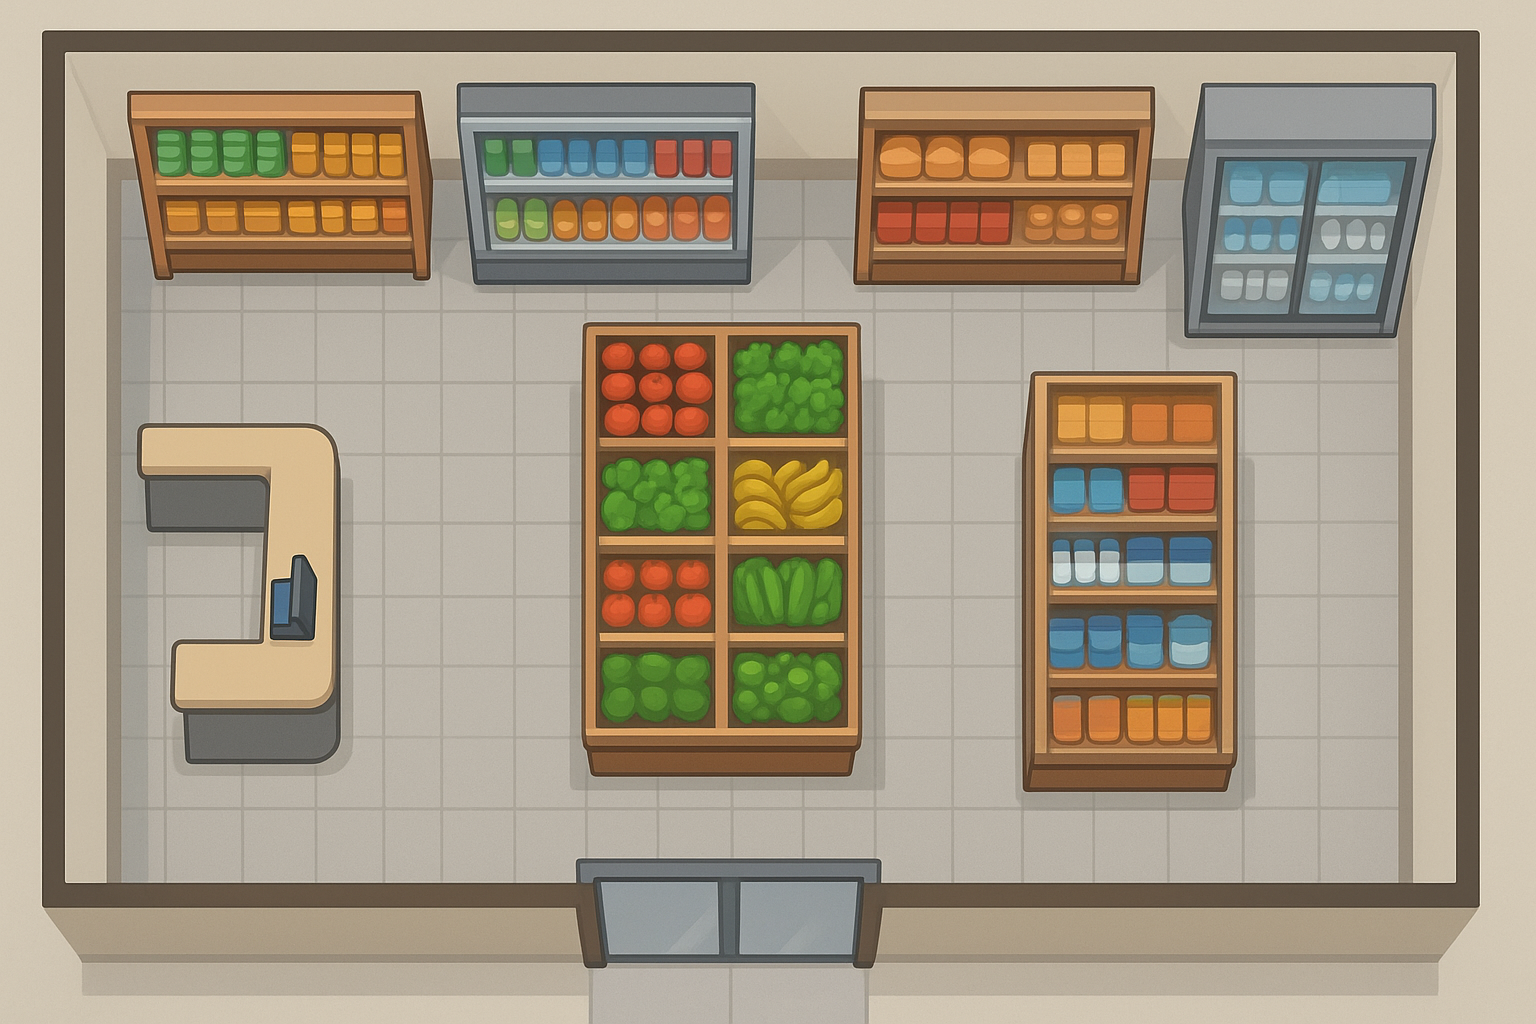
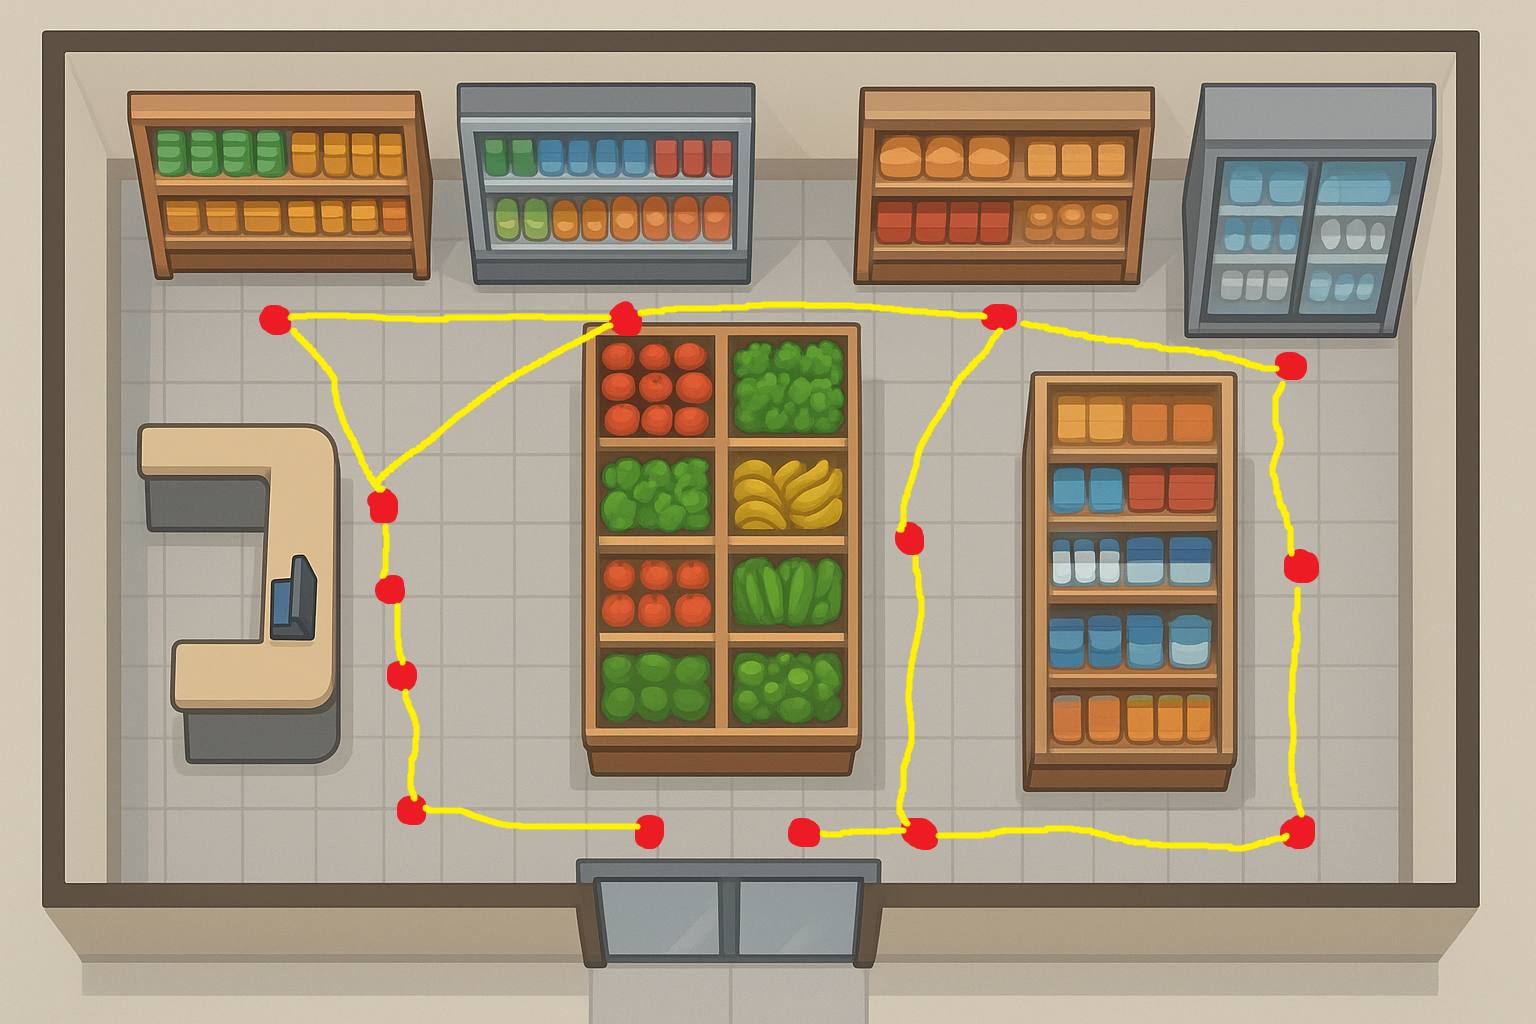
nodes verbeterd en in het systeem gezet

diff --git a/src/main/java/Controller/Main.java b/src/main/java/Controller/Main.java
@@ -6,7 +6,9 @@ import View.SimulationPanel;
 
 import javax.swing.*;
 import java.io.IOException;
+import java.util.HashMap;
 import java.util.List;
+import java.util.Map;
 
 public class Main {
     public static void main(String[] args) throws IOException {
@@ -27,78 +29,98 @@ public class Main {
                 throw new RuntimeException(e);
             }
         });
+
     }
 
     private static void SetupApplication() throws IOException {
-            JFrame frame = new JFrame("Supermarket Simulator");
+        JFrame frame = new JFrame("Supermarket Simulator");
 
-            ImageIcon icon = new ImageIcon(Main.class.getResource("/images/Logo.png"));
-            frame.setIconImage(icon.getImage());
+        ImageIcon icon = new ImageIcon(Main.class.getResource("/images/Logo.png"));
+        frame.setIconImage(icon.getImage());
 
-            frame.setDefaultCloseOperation(JFrame.EXIT_ON_CLOSE);
-            frame.setExtendedState(JFrame.MAXIMIZED_BOTH);
-            frame.setVisible(true);
+        frame.setDefaultCloseOperation(JFrame.EXIT_ON_CLOSE);
+        frame.setExtendedState(JFrame.MAXIMIZED_BOTH);
 
-            try {
-                frame.add(new SimulationPanel());
-            } catch (IOException e) {
-                throw new RuntimeException(e);
+        SimulationPanel panel = new SimulationPanel();
+
+        // 🔥 Add mouse listener here
+        panel.addMouseListener(new java.awt.event.MouseAdapter() {
+            @Override
+            public void mouseClicked(java.awt.event.MouseEvent e) {
+                int width = panel.getWidth();
+                int height = panel.getHeight();
+
+                // Absolute coords
+                int absX = e.getX();
+                int absY = e.getY();
+
+                // Relative coords (0.0 → 1.0)
+                double relX = (double) absX / width;
+                double relY = (double) absY / height;
+
+                System.out.println("Clicked at: (" + absX + ", " + absY +
+                        ")  relative=(" + relX + ", " + relY + ")");
             }
+        });
 
+        frame.add(panel);
+        frame.setVisible(true);
     }
+
 
     private static void grafen(){
         // 1. Maak een WorldGraph
         WorldGraph graph = new WorldGraph();
 
-        // 2. Voeg een paar dummy nodes toe
-        Node entrance = new Node("Entrance", 0, 0);
-        Node pad1 = new Node("Pad1", 0, 0);
-        Node pad2 = new Node("Pad2", 0, 0);
-        Node liggend_kast_1 = new Node("Liggend-kast-1", 5, 5);
-        Node kast1 = new Node("kast1", 5, 0);
-        Node kast2 = new Node("kast2", 5, 5);
-        Node koelkast = new Node("koelkast", 5, 5);
-        Node liggend_kast_2 = new Node("liggend-kast-2", 5, 5);
-        Node kast3 = new Node("kast3", 5, 5);
-        Node queue2 = new Node("queue2", 5, 5);
-        Node queue1 = new Node("queue1", 5, 5);
-        Node cashier = new Node("Cashier", 0, 5);
-        Node exit =  new Node("Exit", 0, 5);
+        HashMap<String, double[]> nodeCordinates = new HashMap<>();
+        Map<String, Node> nodes = new HashMap<>();
 
-        graph.addNode(entrance);
-        graph.addNode(pad1);
-        graph.addNode(pad2);
-        graph.addNode(liggend_kast_1);
-        graph.addNode(kast1);
-        graph.addNode(kast2);
-        graph.addNode(koelkast);
-        graph.addNode(liggend_kast_2);
-        graph.addNode(kast3);
-        graph.addNode(queue2);
-        graph.addNode(queue1);
-        graph.addNode(cashier);
-        graph.addNode(exit);
+        //Dit zijn de relatieve cordinaten. die doen we x de screensize om de goede punten te plaatsen.
+        nodeCordinates.put("entrance", new double[]{0.5234375, 0.8140610545790934});
+        nodeCordinates.put("pad1", new double[]{0.59765625, 0.8122109158186864});
+        nodeCordinates.put("pad2", new double[]{0.84716796875, 0.81313598519889});
+        nodeCordinates.put("liggend-kast-2", new double[]{0.8466796875, 0.5513413506012951});
+        nodeCordinates.put("koelkast", new double[]{0.8408203125, 0.35337650323774283});
+        nodeCordinates.put("kast1", new double[]{0.64990234375, 0.3089731729879741});
+        nodeCordinates.put("liggend-kast-1", new double[]{0.59130859375, 0.5235892691951897});
+        nodeCordinates.put("kast2", new double[]{0.4091796875, 0.31267345050878814});
+        nodeCordinates.put("kast3", new double[]{0.1787109375, 0.3108233117483811});
+        nodeCordinates.put("queue3", new double[]{0.24755859375, 0.4958371877890842});
+        nodeCordinates.put("queue2", new double[]{0.25439453125, 0.5772432932469935});
+        nodeCordinates.put("queue1", new double[]{0.26123046875, 0.6595744680851063});
+        nodeCordinates.put("cashier", new double[]{0.26611328125, 0.788159111933395});
+        nodeCordinates.put("exit", new double[]{0.42333984375, 0.8103607770582794});
+
+        // 2. Voeg een paar dummy nodes toe
+        for (Map.Entry<String, double[]> entry : nodeCordinates.entrySet()) {
+            String name = entry.getKey();
+            double[] coords = entry.getValue();
+            float x = (float) coords[0];
+            float y = (float) coords[1];
+            Node node = new Node(name, x, y);
+            graph.addNode(node);
+            nodes.put(name, node);
+        }
 
         // 3. Maak verbindingen (edges)
-        graph.connect(entrance, pad1, 1);
-        graph.connect(pad1, pad2, 2);
-        graph.connect(pad1, liggend_kast_1, 2);
-        graph.connect(pad2, liggend_kast_2, 2);
-        graph.connect(liggend_kast_1, kast1, 2);
-        graph.connect(liggend_kast_2, koelkast, 2);
-        graph.connect(koelkast, kast1, 2);
-        graph.connect(kast1, kast2, 3);
-        graph.connect(kast2, kast3, 2);
-        graph.connect(kast2, queue2, 2);
-        graph.connect(kast3, queue2, 2);
-        graph.connect(queue2, queue1, 1);
-        graph.connect(queue1, cashier, 1);
-        graph.connect(cashier, exit, 2);
+        graph.connect(nodes.get("entrance"), nodes.get("pad1"), 1);
+        graph.connect(nodes.get("pad1"), nodes.get("pad2"), 2);
+        graph.connect(nodes.get("pad1"), nodes.get("liggend-kast-1"), 2);
+        graph.connect(nodes.get("pad2"), nodes.get("liggend-kast-2"), 2);
+        graph.connect(nodes.get("liggend-kast-1"), nodes.get("kast1"), 2);
+        graph.connect(nodes.get("liggend-kast-2"), nodes.get("koelkast"), 2);
+        graph.connect(nodes.get("koelkast"), nodes.get("kast1"), 2);
+        graph.connect(nodes.get("kast1"), nodes.get("kast2"), 3);
+        graph.connect(nodes.get("kast2"), nodes.get("kast3"), 2);
+        graph.connect(nodes.get("kast2"), nodes.get("queue2"), 2);
+        graph.connect(nodes.get("kast3"), nodes.get("queue2"), 2);
+        graph.connect(nodes.get("queue2"), nodes.get("queue1"), 1);
+        graph.connect(nodes.get("queue1"), nodes.get("cashier"), 1);
+        graph.connect(nodes.get("cashier"), nodes.get("exit"), 2);
 
 
         // 4. Test de findPath methode
-        List<Node> path = graph.findPath(entrance, exit);
+        List<Node> path = graph.findPath(nodes.get("entrance"), nodes.get("exit"));
 
         // 5. Print het pad
         System.out.println("Path from Entrance to ShelfB:");

diff --git a/src/main/java/Controller/TickController.java b/src/main/java/Controller/TickController.java
@@ -23,7 +23,7 @@ public class TickController {
         if(count < 30)
             count++;
         else {
-            System.out.println("Tick " + (System.currentTimeMillis() - nextTick));
+//            System.out.println("Tick " + (System.currentTimeMillis() - nextTick));
             count = 0;
         }
     }
